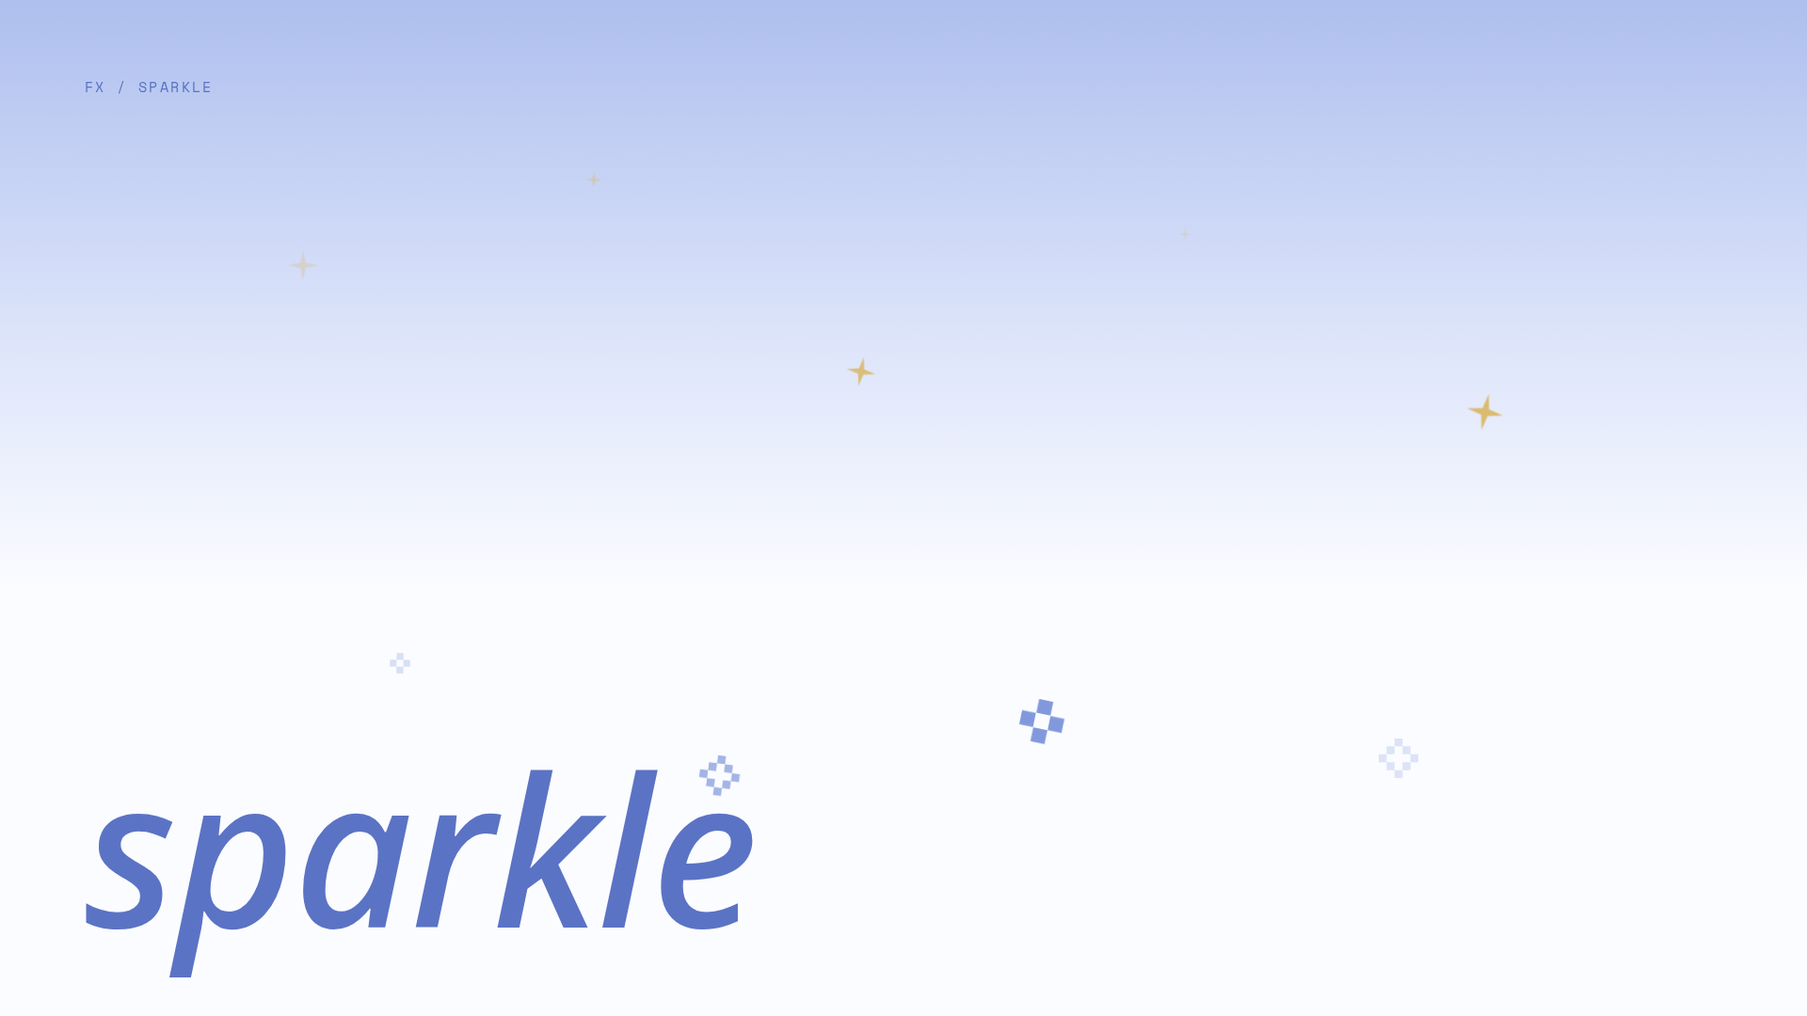
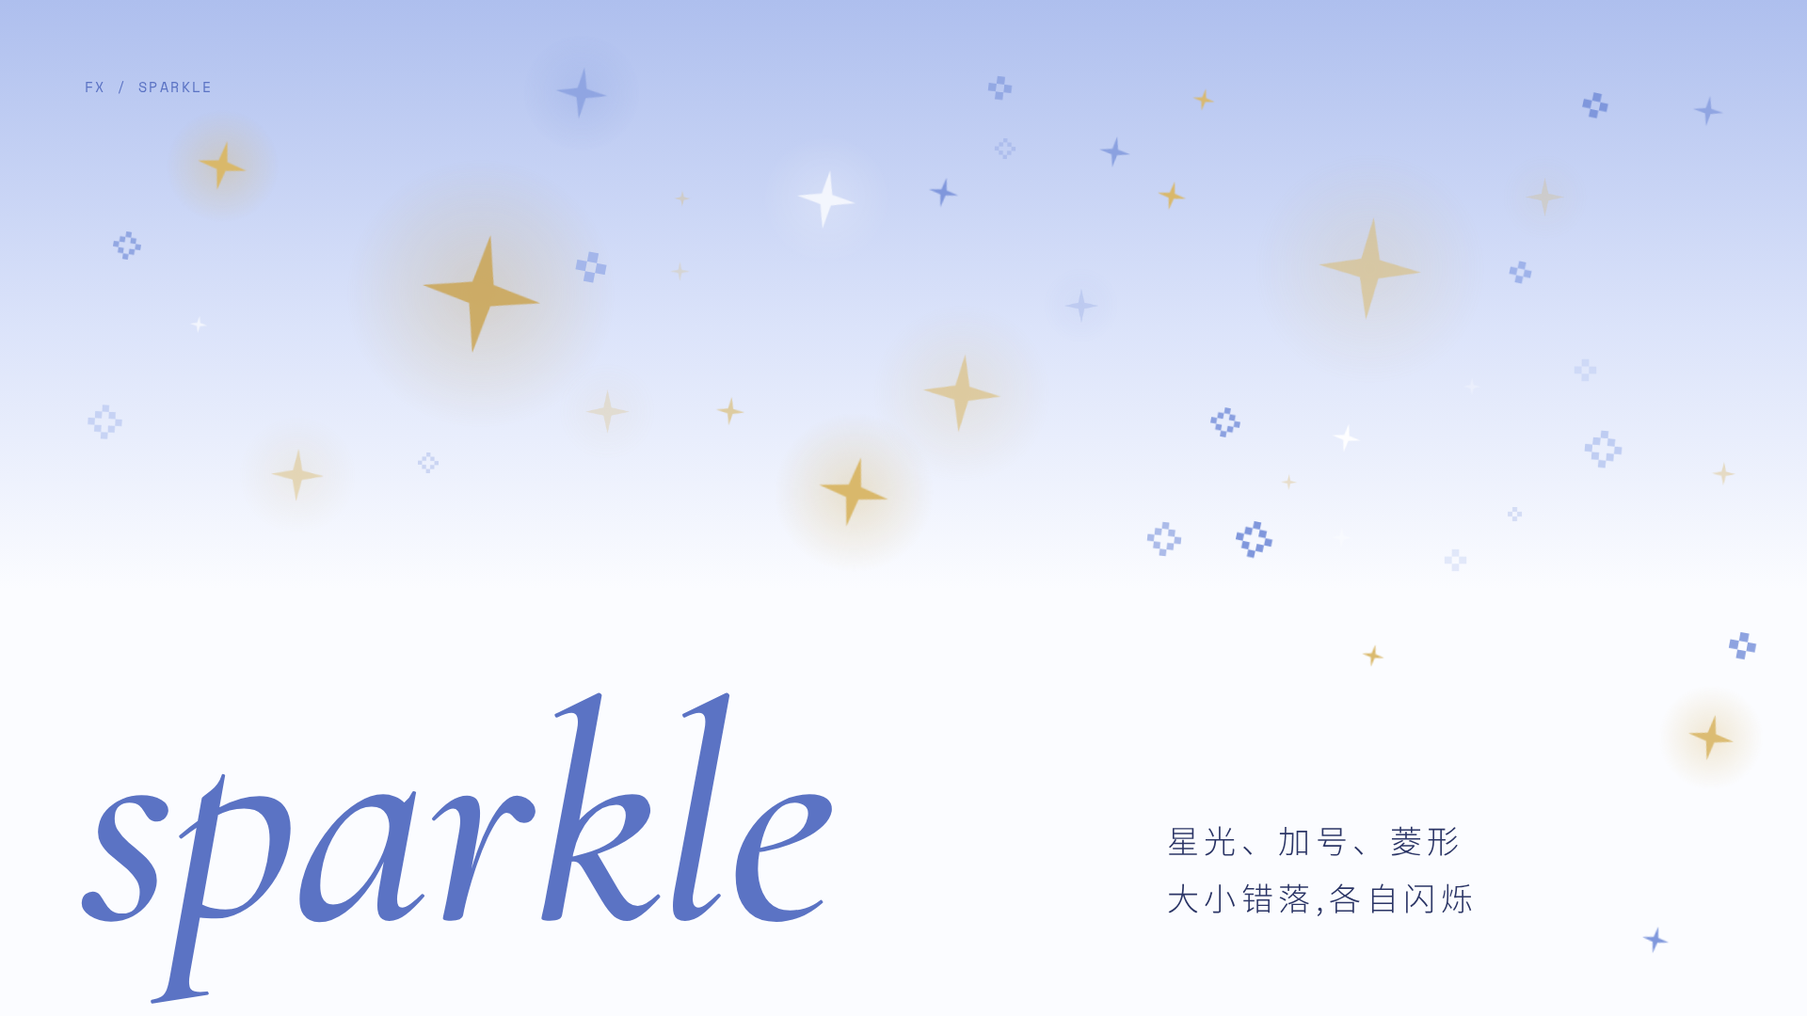
fit-to-window scaling for demo pages; redo sparkle demo with halo; regenerate gallery

diff --git a/effects/sparkle/index.html b/effects/sparkle/index.html
@@ -4,16 +4,124 @@
 <link rel="stylesheet" href="../../styles/pixel-lace.css">
 <link rel="stylesheet" href="sparkle.css">
 </head><body>
+
+<!-- 1: 满屏星光 -->
 <section class="s" id="s1">
   <div class="abs mono" style="left:90px;top:80px;color:var(--blue)">fx / sparkle</div>
-  <i class="sp-star tw" style="left:300px;top:260px;--s:72px"></i>
-  <i class="sp-star tw" style="left:620px;top:180px;--s:40px;--d:.6s"></i>
-  <i class="sp-star tw" style="left:900px;top:380px;--s:52px;--d:1.1s"></i>
-  <i class="sp-star tw" style="left:1250px;top:240px;--s:34px;--d:.3s"></i>
-  <i class="sp-star tw" style="left:1560px;top:420px;--s:64px;--d:1.6s"></i>
-  <i class="sp-plus tw" style="left:420px;top:700px;--s:10px;--d:.4s"></i>
-  <i class="sp-plus tw" style="left:1100px;top:760px;--s:14px;--d:1.3s"></i>
-  <i class="sp-dia tw" style="left:760px;top:820px;--s:9px;--d:.9s"></i>
-  <i class="sp-dia tw" style="left:1480px;top:800px;--s:12px;--d:.2s"></i>
-  <div class="abs serif" style="left:90px;bottom:80px;font-size:220px;color:var(--blue)">sparkle</div>
-</section></body></html>
+  <i class="sp-halo tw" style="left:448px;top:249px;--s:127px;--c:#c9a24c;--d:1.6s;--t:3.1s"></i><i class="sp-star tw" style="left:448px;top:249px;--s:127px;--c:#c9a24c;--d:1.6s;--t:3.1s"></i>
+  <i class="sp-halo tw" style="left:974px;top:370px;--s:96px;--c:#d9b86a;--d:0.2s;--t:3.1s"></i><i class="sp-star tw" style="left:974px;top:370px;--s:96px;--c:#d9b86a;--d:0.2s;--t:3.1s"></i>
+  <i class="sp-halo tw" style="left:1391px;top:221px;--s:129px;--c:#d9b86a;--d:2.2s;--t:1.9s"></i><i class="sp-star tw" style="left:1391px;top:221px;--s:129px;--c:#d9b86a;--d:2.2s;--t:1.9s"></i>
+  <i class="sp-halo tw" style="left:1123px;top:299px;--s:52px;--c:#7f97dc;--d:0.8s;--t:1.8s"></i><i class="sp-star tw" style="left:1123px;top:299px;--s:52px;--c:#7f97dc;--d:0.8s;--t:1.8s"></i>
+  <i class="sp-halo tw" style="left:281px;top:470px;--s:70px;--c:#d9b86a;--d:2.2s;--t:2.4s"></i><i class="sp-star tw" style="left:281px;top:470px;--s:70px;--c:#d9b86a;--d:2.2s;--t:2.4s"></i>
+  <i class="sp-halo tw" style="left:1795px;top:761px;--s:46px;--c:#d9b86a;--d:0.6s;--t:3.3s"></i><i class="sp-star tw" style="left:1795px;top:761px;--s:46px;--c:#d9b86a;--d:0.6s;--t:3.3s"></i>
+  <i class="sp-halo tw" style="left:873px;top:489px;--s:68px;--c:#d9b86a;--d:1.5s;--t:2.1s"></i><i class="sp-star tw" style="left:873px;top:489px;--s:68px;--c:#d9b86a;--d:1.5s;--t:2.1s"></i>
+  <i class="sp-halo tw" style="left:612px;top:404px;--s:67px;--c:#d9b86a;--d:0.8s;--t:1.8s"></i><i class="sp-star tw" style="left:612px;top:404px;--s:67px;--c:#d9b86a;--d:0.8s;--t:1.8s"></i>
+  <i class="sp-halo tw" style="left:1612px;top:180px;--s:59px;--c:#d9b86a;--d:0.6s;--t:2.0s"></i><i class="sp-star tw" style="left:1612px;top:180px;--s:59px;--c:#d9b86a;--d:0.6s;--t:2.0s"></i>
+  <i class="sp-halo tw" style="left:845px;top:179px;--s:66px;--c:#ffffff;--d:1.1s;--t:2.1s"></i><i class="sp-star tw" style="left:845px;top:179px;--s:66px;--c:#ffffff;--d:1.1s;--t:2.1s"></i>
+  <i class="sp-halo tw" style="left:588px;top:69px;--s:60px;--c:#7f97dc;--d:0.9s;--t:2.3s"></i><i class="sp-star tw" style="left:588px;top:69px;--s:60px;--c:#7f97dc;--d:0.9s;--t:2.3s"></i>
+  <i class="sp-halo tw" style="left:212px;top:152px;--s:48px;--c:#d9b86a;--d:1.5s;--t:2.2s"></i><i class="sp-star tw" style="left:212px;top:152px;--s:48px;--c:#d9b86a;--d:1.5s;--t:2.2s"></i>
+  <i class="sp-star tw" style="left:988px;top:190px;--s:29px;--c:#7f97dc;--d:1.3s;--t:2.7s"></i>
+  <i class="sp-star tw" style="left:1746px;top:986px;--s:26px;--c:#7f97dc;--d:1.3s;--t:2.6s"></i>
+  <i class="sp-star tw" style="left:201px;top:335px;--s:20px;--c:#ffffff;--d:1.2s;--t:1.9s"></i>
+  <i class="sp-star tw" style="left:1231px;top:194px;--s:28px;--c:#d9b86a;--d:0.9s;--t:3.2s"></i>
+  <i class="sp-star tw" style="left:1268px;top:95px;--s:22px;--c:#d9b86a;--d:1.2s;--t:2.4s"></i>
+  <i class="sp-star tw" style="left:713px;top:199px;--s:24px;--c:#d9b86a;--d:0.2s;--t:2.7s"></i>
+  <i class="sp-star tw" style="left:759px;top:420px;--s:34px;--c:#d9b86a;--d:1.8s;--t:3.2s"></i>
+  <i class="sp-star tw" style="left:1815px;top:487px;--s:33px;--c:#d9b86a;--d:2.2s;--t:2.7s"></i>
+  <i class="sp-star tw" style="left:1416px;top:451px;--s:29px;--c:#ffffff;--d:1.5s;--t:2.8s"></i>
+  <i class="sp-star tw" style="left:1551px;top:398px;--s:26px;--c:#ffffff;--d:2.4s;--t:2.9s"></i>
+  <i class="sp-star tw" style="left:1168px;top:145px;--s:33px;--c:#7f97dc;--d:2.0s;--t:1.8s"></i>
+  <i class="sp-star tw" style="left:1411px;top:557px;--s:29px;--c:#ffffff;--d:2.3s;--t:2.4s"></i>
+  <i class="sp-star tw" style="left:1448px;top:686px;--s:22px;--c:#d9b86a;--d:1.3s;--t:3.0s"></i>
+  <i class="sp-star tw" style="left:1358px;top:501px;--s:23px;--c:#d9b86a;--d:2.3s;--t:2.4s"></i>
+  <i class="sp-star tw" style="left:708px;top:274px;--s:29px;--c:#d9b86a;--d:0.3s;--t:2.4s"></i>
+  <i class="sp-star tw" style="left:1798px;top:101px;--s:34px;--c:#7f97dc;--d:0.2s;--t:3.4s"></i>
+  <i class="sp-plus tw" style="left:623px;top:279px;--s:10px;--c:#9fb3ea;--d:1.0s;--t:2.6s"></i>
+  <i class="sp-plus tw" style="left:1847px;top:682px;--s:9px;--c:#7f97dc;--d:1.8s;--t:2.2s"></i>
+  <i class="sp-plus tw" style="left:1691px;top:108px;--s:8px;--c:#7f97dc;--d:1.2s;--t:2.8s"></i>
+  <i class="sp-plus tw" style="left:1606px;top:543px;--s:7px;--c:#7f97dc;--d:0.5s;--t:2.2s"></i>
+  <i class="sp-plus tw" style="left:1679px;top:388px;--s:11px;--c:#9fb3ea;--d:2.4s;--t:3.2s"></i>
+  <i class="sp-plus tw" style="left:1058px;top:89px;--s:9px;--c:#7f97dc;--d:2.1s;--t:1.9s"></i>
+  <i class="sp-plus tw" style="left:1541px;top:590px;--s:11px;--c:#9fb3ea;--d:2.5s;--t:2.6s"></i>
+  <i class="sp-plus tw" style="left:1612px;top:286px;--s:7px;--c:#9fb3ea;--d:1.4s;--t:2.3s"></i>
+  <i class="sp-dia tw" style="left:1233px;top:569px;--s:8px;--c:#7f97dc;--d:1.1s;--t:2.0s"></i>
+  <i class="sp-dia tw" style="left:1299px;top:446px;--s:6px;--c:#7f97dc;--d:1.4s;--t:1.9s"></i>
+  <i class="sp-dia tw" style="left:1065px;top:155px;--s:6px;--c:#7f97dc;--d:0.2s;--t:2.7s"></i>
+  <i class="sp-dia tw" style="left:1699px;top:473px;--s:9px;--c:#9fb3ea;--d:0.6s;--t:2.6s"></i>
+  <i class="sp-dia tw" style="left:452px;top:489px;--s:6px;--c:#7f97dc;--d:2.4s;--t:2.0s"></i>
+  <i class="sp-dia tw" style="left:132px;top:258px;--s:6px;--c:#7f97dc;--d:0.6s;--t:2.9s"></i>
+  <i class="sp-dia tw" style="left:1329px;top:570px;--s:7px;--c:#7f97dc;--d:1.3s;--t:2.7s"></i>
+  <i class="sp-dia tw" style="left:107px;top:444px;--s:9px;--c:#9fb3ea;--d:2.1s;--t:2.8s"></i>
+  <div class="abs serif" style="left:84px;bottom:60px;font-size:330px;color:var(--blue)">sparkle</div>
+  <div class="abs" style="left:1240px;bottom:96px;font-size:34px;font-weight:300;letter-spacing:.16em;line-height:1.8;color:var(--ink)">星光、加号、菱形<br>大小错落,各自闪烁</div>
+</section>
+
+<!-- 2: 叠在照片上(照片左边缘用渐变遮罩融进背景) -->
+<section class="s" id="s2" style="background:#08080f">
+  <img class="abs" src="../../decks/girlhood-heroism/art/dancer.png" style="left:1005px;top:0;width:915px;height:1080px;object-fit:cover;-webkit-mask-image:linear-gradient(90deg,transparent,#000 14%);mask-image:linear-gradient(90deg,transparent,#000 14%)">
+  <i class="sp-halo tw" style="left:1458px;top:70px;--s:96px;--c:#ffffff;--d:1.4s;--t:3.2s"></i><i class="sp-star tw" style="left:1458px;top:70px;--s:96px;--c:#ffffff;--d:1.4s;--t:3.2s"></i>
+  <i class="sp-halo tw" style="left:1090px;top:400px;--s:64px;--c:#d9b86a;--d:1.4s;--t:2.1s"></i><i class="sp-star tw" style="left:1090px;top:400px;--s:64px;--c:#d9b86a;--d:1.4s;--t:2.1s"></i>
+  <i class="sp-halo tw" style="left:1745px;top:310px;--s:80px;--c:#ffffff;--d:0.6s;--t:2.7s"></i><i class="sp-star tw" style="left:1745px;top:310px;--s:80px;--c:#ffffff;--d:0.6s;--t:2.7s"></i>
+  <i class="sp-halo tw" style="left:1385px;top:560px;--s:52px;--c:#d9b86a;--d:1.5s;--t:2.0s"></i><i class="sp-star tw" style="left:1385px;top:560px;--s:52px;--c:#d9b86a;--d:1.5s;--t:2.0s"></i>
+  <i class="sp-halo tw" style="left:1250px;top:170px;--s:38px;--c:#ffffff;--d:2.4s;--t:2.8s"></i><i class="sp-star tw" style="left:1250px;top:170px;--s:38px;--c:#ffffff;--d:2.4s;--t:2.8s"></i>
+  <i class="sp-halo tw" style="left:1640px;top:120px;--s:44px;--c:#d9b86a;--d:0.9s;--t:2.1s"></i><i class="sp-star tw" style="left:1640px;top:120px;--s:44px;--c:#d9b86a;--d:0.9s;--t:2.1s"></i>
+  <i class="sp-halo tw" style="left:1560px;top:700px;--s:58px;--c:#ffffff;--d:1.6s;--t:3.2s"></i><i class="sp-star tw" style="left:1560px;top:700px;--s:58px;--c:#ffffff;--d:1.6s;--t:3.2s"></i>
+  <i class="sp-halo tw" style="left:1180px;top:760px;--s:34px;--c:#d9b86a;--d:0.5s;--t:3.0s"></i><i class="sp-star tw" style="left:1180px;top:760px;--s:34px;--c:#d9b86a;--d:0.5s;--t:3.0s"></i>
+  <i class="sp-halo tw" style="left:1800px;top:640px;--s:40px;--c:#ffffff;--d:0.5s;--t:2.0s"></i><i class="sp-star tw" style="left:1800px;top:640px;--s:40px;--c:#ffffff;--d:0.5s;--t:2.0s"></i>
+  <i class="sp-halo tw" style="left:1330px;top:900px;--s:46px;--c:#d9b86a;--d:2.3s;--t:2.0s"></i><i class="sp-star tw" style="left:1330px;top:900px;--s:46px;--c:#d9b86a;--d:2.3s;--t:2.0s"></i>
+  <i class="sp-halo tw" style="left:1500px;top:420px;--s:30px;--c:#ffffff;--d:0.2s;--t:2.4s"></i><i class="sp-star tw" style="left:1500px;top:420px;--s:30px;--c:#ffffff;--d:0.2s;--t:2.4s"></i>
+  <i class="sp-plus tw" style="left:1485px;top:892px;--s:6px;--c:#ffffff;--d:0.5s;--t:2.8s"></i>
+  <i class="sp-plus tw" style="left:1858px;top:58px;--s:5px;--c:#ffffff;--d:1.5s;--t:2.4s"></i>
+  <i class="sp-plus tw" style="left:1409px;top:158px;--s:8px;--c:#d9b86a;--d:1.3s;--t:2.9s"></i>
+  <i class="sp-plus tw" style="left:1233px;top:862px;--s:5px;--c:#d9b86a;--d:0.3s;--t:1.9s"></i>
+  <i class="sp-plus tw" style="left:1604px;top:668px;--s:8px;--c:#d9b86a;--d:0.4s;--t:2.1s"></i>
+  <i class="sp-plus tw" style="left:1248px;top:216px;--s:5px;--c:#d9b86a;--d:2.4s;--t:2.0s"></i>
+  <i class="sp-plus tw" style="left:1103px;top:177px;--s:8px;--c:#d9b86a;--d:0.2s;--t:2.0s"></i>
+  <i class="sp-plus tw" style="left:1440px;top:518px;--s:6px;--c:#d9b86a;--d:1.1s;--t:2.8s"></i>
+  <i class="sp-plus tw" style="left:1053px;top:689px;--s:8px;--c:#ffffff;--d:2.2s;--t:2.1s"></i>
+  <i class="sp-plus tw" style="left:1504px;top:408px;--s:8px;--c:#d9b86a;--d:1.1s;--t:2.1s"></i>
+  <i class="sp-plus tw" style="left:1209px;top:137px;--s:8px;--c:#ffffff;--d:0.8s;--t:1.9s"></i>
+  <i class="sp-plus tw" style="left:1761px;top:936px;--s:8px;--c:#d9b86a;--d:1.5s;--t:2.1s"></i>
+  <i class="sp-plus tw" style="left:1638px;top:389px;--s:6px;--c:#d9b86a;--d:2.4s;--t:3.0s"></i>
+  <i class="sp-plus tw" style="left:1836px;top:203px;--s:6px;--c:#ffffff;--d:2.3s;--t:3.2s"></i>
+  <i class="sp-dia tw" style="left:1751px;top:418px;--s:5px;--c:#ffffff;--d:1.1s;--t:3.0s"></i>
+  <i class="sp-dia tw" style="left:1112px;top:856px;--s:5px;--c:#d9b86a;--d:1.2s;--t:1.8s"></i>
+  <i class="sp-dia tw" style="left:1404px;top:694px;--s:6px;--c:#ffffff;--d:0.6s;--t:3.3s"></i>
+  <i class="sp-dia tw" style="left:1722px;top:346px;--s:5px;--c:#ffffff;--d:1.7s;--t:2.7s"></i>
+  <i class="sp-dia tw" style="left:1585px;top:118px;--s:5px;--c:#d9b86a;--d:1.7s;--t:2.9s"></i>
+  <i class="sp-dia tw" style="left:1820px;top:444px;--s:6px;--c:#ffffff;--d:0.3s;--t:2.0s"></i>
+  <i class="sp-dia tw" style="left:1282px;top:302px;--s:5px;--c:#d9b86a;--d:1.3s;--t:3.0s"></i>
+  <i class="sp-dia tw" style="left:1703px;top:424px;--s:4px;--c:#ffffff;--d:0.7s;--t:2.2s"></i>
+  <div class="abs mono" style="left:90px;top:80px;color:#aebfee">fx / sparkle — on photo</div>
+  <div class="abs serif" style="left:84px;top:330px;font-size:300px;color:#e6ebfb">glint</div>
+  <div class="abs" style="left:96px;top:760px;font-size:34px;font-weight:300;letter-spacing:.16em;line-height:1.8;color:#c9d5f6">星光落在手、头发和脸上<br>每颗的相位不同,不会一起闪</div>
+</section>
+
+<!-- 3: 用法速查 -->
+<section class="s flat" id="s3">
+  <div class="abs mono" style="left:90px;top:80px;color:var(--blue)">fx / sparkle — spec</div>
+  <div class="abs serif" style="left:84px;top:100px;font-size:150px;color:var(--blue)">usage</div>
+  <div class="abs mono" style="left:90px;top:330px;color:var(--ink)">.sp-star<br><span style="opacity:.55">--s 大小  --c 颜色</span></div>
+  <i class="sp-star" style="left:640px;top:336px;--s:28px;--c:#d9b86a"></i>
+  <i class="sp-star" style="left:860px;top:326px;--s:48px;--c:#c9a24c"></i>
+  <i class="sp-star" style="left:1080px;top:314px;--s:72px;--c:#7f97dc"></i>
+  <i class="sp-star" style="left:1300px;top:298px;--s:104px;--c:#d9b86a"></i>
+  <i class="sp-star" style="left:1520px;top:280px;--s:140px;--c:#7f97dc"></i>
+  <div class="abs mono" style="left:90px;top:545px;color:var(--ink)">.sp-plus<br><span style="opacity:.55">--s 每格大小</span></div>
+  <i class="sp-plus" style="left:645px;top:565px;--s:5px;--c:#7f97dc"></i>
+  <i class="sp-plus" style="left:867px;top:565px;--s:7px;--c:#7f97dc"></i>
+  <i class="sp-plus" style="left:1090px;top:565px;--s:10px;--c:#7f97dc"></i>
+  <i class="sp-plus" style="left:1314px;top:565px;--s:14px;--c:#c9a24c"></i>
+  <i class="sp-plus" style="left:1538px;top:565px;--s:18px;--c:#c9a24c"></i>
+  <div class="abs mono" style="left:90px;top:760px;color:var(--ink)">.sp-dia<br><span style="opacity:.55">--s 每格大小</span></div>
+  <i class="sp-dia" style="left:648px;top:780px;--s:4px;--c:#7f97dc"></i>
+  <i class="sp-dia" style="left:872px;top:780px;--s:6px;--c:#7f97dc"></i>
+  <i class="sp-dia" style="left:1098px;top:780px;--s:9px;--c:#7f97dc"></i>
+  <i class="sp-dia" style="left:1324px;top:780px;--s:12px;--c:#c9a24c"></i>
+  <i class="sp-dia" style="left:1552px;top:780px;--s:16px;--c:#c9a24c"></i>
+  <div class="abs" style="left:640px;top:96px;font-size:28px;font-weight:300;letter-spacing:.14em;color:var(--ink)">三种形状 × 任意大小和颜色,想让它闪,再加 <b style="font-weight:500">.tw</b>(下方样例为静态)</div>
+  <i class="sp-halo" style="left:1640px;top:900px;--s:44px;--c:#d9b86a"></i><i class="sp-star" style="left:1640px;top:900px;--s:44px;--c:#d9b86a"></i>
+  <div class="abs mono" style="left:1440px;top:975px;color:var(--ink);font-size:13px;letter-spacing:.1em">.sp-halo 放在星星前面 → 带光晕</div>
+</section>
+<script src="../../styles/fit.js"></script>
+</body></html>

diff --git a/index.html b/index.html
@@ -46,7 +46,7 @@ footer{margin-top:72px;font-family:'Space Mono','Noto Sans SC',monospace;font-si
 <article><a class="th" href="effects/pixel-ornament/"><img loading="lazy" src="effects/pixel-ornament/png/s1.png" alt=""></a><h3><a href="effects/pixel-ornament/">pixel-ornament</a></h3><p>40×68 像素花纹遮罩(art/pixel_ornament.py 生成 ornament.css),同一遮罩可做白色花纹或透出照片,可镜像</p><div class="chips"></div></article>
 <article><a class="th" href="effects/risograph/"><img loading="lazy" src="effects/risograph/png/s1.png" alt=""></a><h3><a href="effects/risograph/">risograph</a></h3><p>SVG 滤镜:拆成两层单色油墨,按明暗取墨量,错位后 multiply 叠在纸色上,噪声打掉部分墨点</p><div class="chips"></div></article>
 <article><a class="th" href="effects/shader-flow/"><img loading="lazy" src="effects/shader-flow/png/s1.png" alt=""></a><h3><a href="effects/shader-flow/">shader-flow</a></h3><p>WebGL 片元着色器(fbm 域扭曲),无依赖</p><div class="chips"><a class="chip" href="effects/shader-flow/preview.mp4">video</a></div></article>
-<article><a class="th" href="effects/sparkle/"><img loading="lazy" src="effects/sparkle/png/s1.png" alt=""></a><h3><a href="effects/sparkle/">sparkle</a></h3><p>纯 CSS 星光、加号、菱形,可闪烁</p><div class="chips"></div></article>
+<article><a class="th" href="effects/sparkle/"><img loading="lazy" src="effects/sparkle/png/s1.png" alt=""></a><h3><a href="effects/sparkle/">sparkle</a></h3><p>纯 CSS 星光、加号、菱形,可闪烁,可加柔光圈</p><div class="chips"></div></article>
 <article><a class="th" href="effects/spread-continuation/"><img loading="lazy" src="effects/spread-continuation/png/s1.png" alt=""></a><h3><a href="effects/spread-continuation/">spread-continuation</a></h3><p>同一组宽元素在相邻页按偏移裁切</p><div class="chips"></div></article>
 <article><a class="th" href="effects/text-reveal/"><img loading="lazy" src="effects/text-reveal/png/s1.png" alt=""></a><h3><a href="effects/text-reveal/">text-reveal</a></h3><p>CSS 遮罩 + 逐字 stagger,小段 JS 拆字</p><div class="chips"><a class="chip" href="effects/text-reveal/preview.mp4">video</a></div></article>
 <article><a class="th" href="effects/warp/"><img loading="lazy" src="effects/warp/png/s1.png" alt=""></a><h3><a href="effects/warp/">warp</a></h3><p>SVG feTurbulence + feDisplacementMap 噪声位移</p><div class="chips"></div></article>

diff --git a/effects/sparkle/sparkle.css b/effects/sparkle/sparkle.css
@@ -2,6 +2,7 @@
    .sp-star  四角星(clip-path),--s 大小,--c 颜色
    .sp-plus  像素十字(5 格拼成),--s 每格大小
    .sp-dia   像素菱形(8 格空心),--s 每格大小
+   .sp-halo  柔光圈,放在星星前面、坐标和 --s 相同,星星就带光晕(星星有 clip-path,没法直接加 glow)
    .tw 加在任意一个上让它闪烁;--d 延迟,--t 周期。 */
 .sp-star{position:absolute;width:var(--s,24px);height:var(--s,24px);background:var(--c,#d9b86a);clip-path:polygon(50% 0,59% 41%,100% 50%,59% 59%,50% 100%,41% 59%,0 50%,41% 41%)}
 .sp-plus,.sp-dia{position:absolute;width:var(--s,8px);height:var(--s,8px);background:transparent}
@@ -9,3 +10,7 @@
 .sp-dia{box-shadow:calc(var(--s,8px)*1) calc(var(--s,8px)*-1) 0 var(--c,#7f97dc),calc(var(--s,8px)*-1) calc(var(--s,8px)*-1) 0 var(--c,#7f97dc),calc(var(--s,8px)*1) calc(var(--s,8px)*1) 0 var(--c,#7f97dc),calc(var(--s,8px)*-1) calc(var(--s,8px)*1) 0 var(--c,#7f97dc),calc(var(--s,8px)*2) 0 0 var(--c,#7f97dc),calc(var(--s,8px)*-2) 0 0 var(--c,#7f97dc),0 calc(var(--s,8px)*2) 0 var(--c,#7f97dc),0 calc(var(--s,8px)*-2) 0 var(--c,#7f97dc)}
 .tw{animation:tw var(--t,2.4s) ease-in-out var(--d,0s) infinite}
 @keyframes tw{0%,100%{opacity:.25;transform:scale(.7) rotate(0)}50%{opacity:1;transform:scale(1.1) rotate(12deg)}}
+.sp-halo{position:absolute;width:calc(var(--s,24px)*2.6);height:calc(var(--s,24px)*2.6);margin:calc(var(--s,24px)*-.8);border-radius:50%;pointer-events:none;
+  background:radial-gradient(circle,var(--c,#d9b86a) 0,transparent 62%);opacity:.24}
+.sp-halo.tw{animation-name:twh}
+@keyframes twh{0%,100%{opacity:.06;transform:scale(.7)}50%{opacity:.32;transform:scale(1.1)}}

diff --git a/styles/fit.js b/styles/fit.js
@@ -1,0 +1,14 @@
+/* fit.js — 窗口比 1920 窄时,把每页 section.s 等比缩小到刚好放进窗口宽度,不再横向滚动。
+   窗口宽度 >= 1880 时不动,所以 shot.js / record.js(1920 视口)的输出和以前完全一样。
+   ?present 时不动:演讲模式(templates/presenter)有自己的缩放。
+   用法:在页面末尾加 <script src="../../styles/fit.js"></script> */
+(function () {
+  if (/[?&]present/.test(location.search)) return;
+  function fit() {
+    var w = document.documentElement.clientWidth;
+    var z = w >= 1880 ? 1 : Math.max(0.2, w / 1920);
+    document.querySelectorAll('section.s').forEach(function (s) { s.style.zoom = z === 1 ? '' : z; });
+  }
+  addEventListener('resize', fit);
+  fit();
+})();

diff --git a/effects/pixel-ornament/index.html b/effects/pixel-ornament/index.html
@@ -21,4 +21,5 @@
   <div class="abs fade-up" style="left:640px;top:0;width:640px;height:1080px"><div class="px-orn flip" style="inset:0;--orn-white:.55"><img src="../../decks/organic-forms/art/foam_dark.png" style="filter:url(#pixelate) url(#blue)"></div></div>
   <div class="abs mono" style="left:90px;top:80px;color:var(--blue)">fx / pixel-ornament</div>
 </section>
+<script src="../../styles/fit.js"></script>
 </body></html>

diff --git a/effects/risograph/index.html b/effects/risograph/index.html
@@ -91,4 +91,5 @@
   <div class="abs riso-t" data-t="套印" style="--a:#ff6a21;--b:#0a8186;--dx:-12px;--dy:8px;left:1090px;top:200px;font-size:360px;font-weight:900;line-height:1">套印</div>
   <div class="abs mono" style="left:1100px;top:700px;color:#111;font-size:18px">--a / --b 换墨色<br>--dx / --dy 调错位<br>feOffset 调图片的错位</div>
 </section>
+<script src="../../styles/fit.js"></script>
 </body></html>

diff --git a/effects/clip-reveal/index.html b/effects/clip-reveal/index.html
@@ -27,4 +27,5 @@
   <img class="abs rv-up" style="--d:.25s;left:680px;top:200px;width:560px;height:700px;object-fit:cover" src="../../decks/organic-forms/art/foam_light.png">
   <img class="abs rv-diag" style="--d:.5s;left:1270px;top:200px;width:560px;height:700px;object-fit:cover" src="../../decks/organic-forms/art/chrome.png">
 </section>
+<script src="../../styles/fit.js"></script>
 </body></html>

diff --git a/effects/chromatic/index.html b/effects/chromatic/index.html
@@ -37,4 +37,5 @@
   <img class="abs fx-chroma-l" src="../../decks/organic-forms/art/chrome_wide.png" style="left:-60px;top:-60px;width:2040px;height:1200px;object-fit:cover;object-position:70% 50%">
   <div class="abs mono" style="left:90px;top:80px;color:#111">fx / chromatic — image</div>
 </section>
+<script src="../../styles/fit.js"></script>
 </body></html>

diff --git a/effects/halftone/index.html b/effects/halftone/index.html
@@ -24,4 +24,5 @@
   <div class="fx-halftone" style="--dot:12px;--blur:3px"><img src="../../decks/organic-forms/art/foam_light.png"></div>
   <div class="abs mono" style="right:90px;top:80px;text-align:right">dot 12px — 点越小越接近照片</div>
 </section>
+<script src="../../styles/fit.js"></script>
 </body></html>

diff --git a/effects/warp/index.html b/effects/warp/index.html
@@ -24,4 +24,5 @@
   <img class="abs fx-warp-l" src="../../decks/organic-forms/art/ribs.png" style="left:-100px;top:-100px;width:2120px;height:1280px;object-fit:cover">
   <div class="abs mono" style="left:90px;top:80px">fx / warp — image</div>
 </section>
+<script src="../../styles/fit.js"></script>
 </body></html>

diff --git a/effects/marquee/index.html b/effects/marquee/index.html
@@ -20,4 +20,5 @@
   <div class="fx-marquee" style="top:770px"><div class="anton" style="font-size:420px;--s:36s">MOTION MOTION MOTION MOTION&nbsp;</div></div>
   <div class="abs mono diff" style="left:90px;top:80px">fx / marquee</div>
 </section>
+<script src="../../styles/fit.js"></script>
 </body></html>

diff --git a/effects/grain/index.html b/effects/grain/index.html
@@ -20,4 +20,5 @@
   <div class="abs anton" style="left:80px;top:60px;font-size:520px">PAPER</div>
   <div class="abs mono" style="left:90px;bottom:80px">同一个 class,浅色底也能用 — 颗粒让纯色面有纸张质感</div>
 </section>
+<script src="../../styles/fit.js"></script>
 </body></html>
